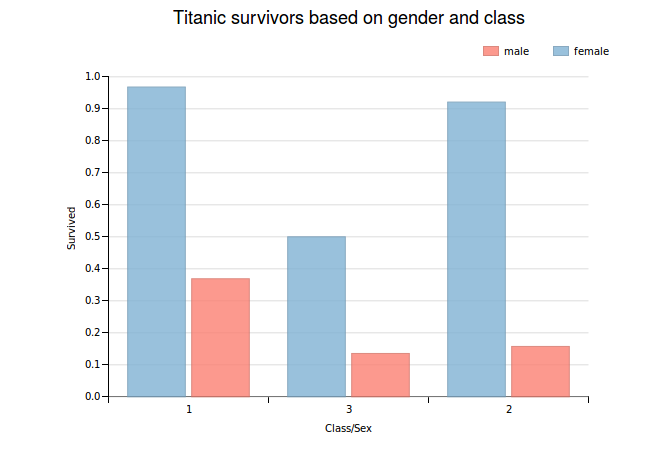
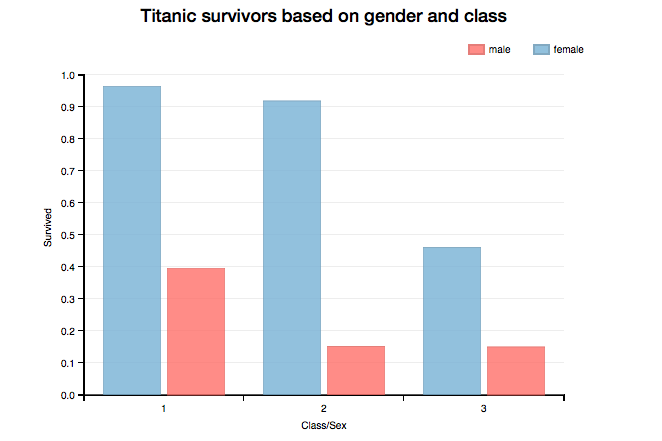
New charts drawn and N/A Data removed

Changed region(s): [[0.0604, 0.1474, 0.8761, 0.9728], [0.2115, 0.0, 0.7855, 0.059], [0.6949, 0.0884, 0.9063, 0.1474]]

diff --git a/P6 - Tell Stories with Data Visualization/index_fin.html b/P6 - Tell Stories with Data Visualization/index_fin.html
@@ -3,7 +3,7 @@
   <head>
     <meta charset="utf-8">
     <title>Titanic Data Exploration</title>
-    <link href="https://maxcdn.bootstrapcdn.com/bootstrap/3.3.2/css/bootstrap.min.css" rel="stylesheet"/>
+    <link href="http://maxcdn.bootstrapcdn.com/bootstrap/3.3.2/css/bootstrap.min.css" rel="stylesheet"/>
       <!--Chart Stylesheets (for design) with Bootstrap for alignment etc above.-->
     <style>
       h2,h4,#chart1,#chart2,#chart3,p{
@@ -15,7 +15,7 @@
 
 <body class="container">
     <!--This segment shows general information and descriptions of the yielded chart.-->
-	<script src="https://d3js.org/d3.v3.min.js"></script>
+	<script src="http://d3js.org/d3.v3.min.js"></script>
     <script src="http://dimplejs.org/dist/dimple.v1.1.2.min.js"></script>
 	<div class="row">
 		<div id="chart1"></div>
@@ -52,13 +52,15 @@
 		    
 		    d3.select("#chart1").html("<br/><br/>").append("h4").text("Proportionate passengers survived by Passenger's class");
 		    var svg1 = dimple.newSvg("#chart1", width, height);
-		    d3.csv("https://github.com/James-Gallagher/data-analyst-nanodegree/blob/master/P6%20-%20Tell%20Stories%20with%20Data%20Visualization/data/data.csv", function(data){
+		    d3.csv("data/data.csv", function(data){
 				var chart = new dimple.chart(svg1, data);
 			    x=chart.addCategoryAxis("x", "Class");
 			    x.addOrderRule("Class", false);
 			    y=chart.addMeasureAxis("y", "Survived");
 			    y.tickFormat = ',.2f';
 			    y.overrideMax = 1.0;
+                chart.defaultColors = [
+    new dimple.color("#008080")]
 			    var mySeries=chart.addSeries(null, dimple.plot.bar);
 			    mySeries.aggregate = dimple.aggregateMethod.avg;
 				chart.draw();
@@ -68,7 +70,7 @@
 
 		    d3.select("#chart2").html("<br/><br/>").append("h4").text("Proportionate passengers survived by gender and class");
 		    var svg2 = dimple.newSvg("#chart2", width, height);
-		    d3.csv("https://github.com/James-Gallagher/data-analyst-nanodegree/blob/master/P6%20-%20Tell%20Stories%20with%20Data%20Visualization/data/data.csv", function(data){
+		    d3.csv("data/data.csv", function(data){
 				var chart = new dimple.chart(svg2, data);
 			    x=chart.addCategoryAxis("x", ["Class","Sex"]);
 			    x.addOrderRule("Class", false);
@@ -84,12 +86,19 @@
 
 		    d3.select("#chart3").html("<br/><br/>").append("h4").text("Proportionate passengers survived by age group and class");
 		    var svg3 = dimple.newSvg("#chart3", width, height);
-		    d3.csv("https://github.com/James-Gallagher/data-analyst-nanodegree/blob/master/P6%20-%20Tell%20Stories%20with%20Data%20Visualization/data/data.csv", function(data){
+		    d3.csv("data/data.csv", function(data){
 				var chart = new dimple.chart(svg3, data);
 		    	x = chart.addCategoryAxis("x", ["Class","Age Group"]);
 		    	x.addOrderRule("Class", false);
 		    	y=chart.addMeasureAxis("y", "Survived");
 		    	y.tickFormat = ',.2f';
+                chart.defaultColors = [
+    new dimple.color("#5e642c"), // Set a red fill with a blue stroke
+    new dimple.color("#00FF00"), // Set a green fill with a darker green stroke
+    new dimple.color("#aa6bd7"), // Set a blue fill with a darker blue stroke
+                    new dimple.color("rgb(0, 0, 255)"), // Set a red fill with a blue stroke
+    new dimple.color("#00FF00"), // Set a green fill with a darker green stroke
+]; 
 		    	var mySeries= chart.addSeries("Age Group",dimple.plot.bar);
 		    	mySeries.aggregate = dimple.aggregateMethod.avg;
 		    	chart.addLegend(65, 10, 510, 20, "right");

diff --git a/P6 - Tell Stories with Data Visualization/index_init.html b/P6 - Tell Stories with Data Visualization/index_init.html
@@ -53,6 +53,13 @@
 			    chart.addMeasureAxis("y", "Survived");
 			    var mySeries= chart.addSeries("Age Group",dimple.plot.bar);
 			    mySeries.aggregate = dimple.aggregateMethod.avg;
+                chart.defaultColors = [
+    new dimple.color("#5e642c"), // Set a red fill with a blue stroke
+    new dimple.color("#00FF00"), // Set a green fill with a darker green stroke
+    new dimple.color("#aa6bd7"), // Set a blue fill with a darker blue stroke
+                    new dimple.color("rgb(0, 0, 255)"), // Set a red fill with a blue stroke
+    new dimple.color("#00FF00"), // Set a green fill with a darker green stroke
+]; 
 			    chart.addLegend(65, 10, 510, 20, "right");
 				chart.draw();
 			});	

diff --git a/P6 - Tell Stories with Data Visualization/README.md b/P6 - Tell Stories with Data Visualization/README.md
@@ -1,4 +1,4 @@
-## Analysis of passengers, focusing on classes, age and more onboard the Titanic by James Gallagher
+## Data Visualization: Titanic Data Visualization by Aakarsh Goel
 
 ### Summary
 
